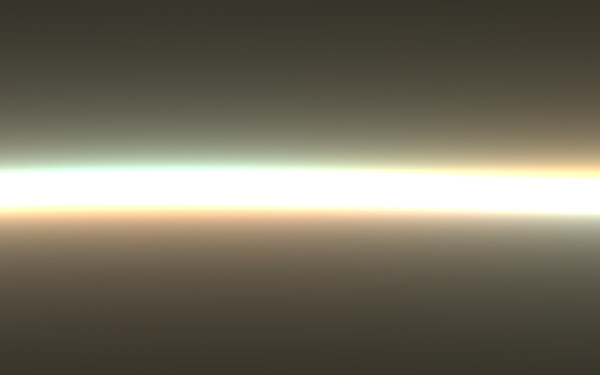
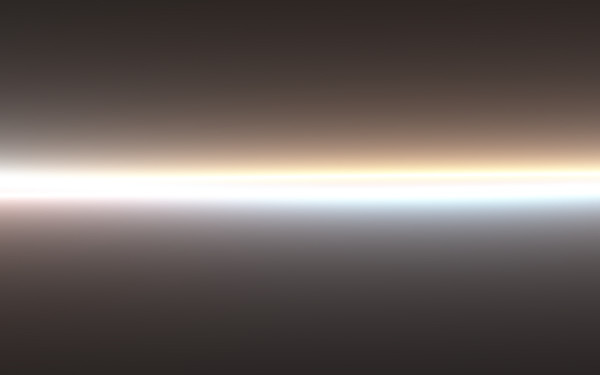
website
Former-commit-id: 2567782667ab955230fc727b3e13213a371d1f07

diff --git a/projects/shaders/glow/glow.js b/projects/shaders/glow/glow.js
@@ -47,8 +47,8 @@ void main(){
   vec2 pos = centre - uv;
   pos.y /= widthHeightRatio;
 
-  float intensity = 0.7;
-  float radius = 0.012;
+  float intensity = 1.0;
+  float radius = 0.02;
 
   vec3 col = vec3(0.0);
   float dist = 0.0;
@@ -61,6 +61,9 @@ void main(){
   //Use time varying colours from the basic template
   //Add it to vec3(0.1) to always have a bright core
   col += dist * (vec3(0.1) + 0.5 + 0.5*cos(time+vec3(0,2,4)));
+
+  //Tone map function discussed in the comments of https://www.shadertoy.com/view/3s3GDn
+  col = 1.0 - exp(-col);
 
   // Output to screen
   gl_FragColor = vec4(col, 1.0);
